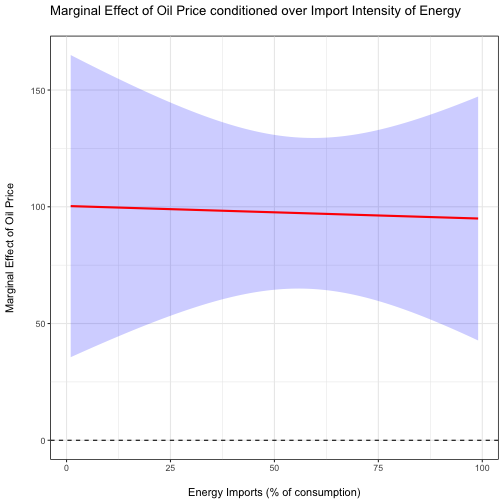
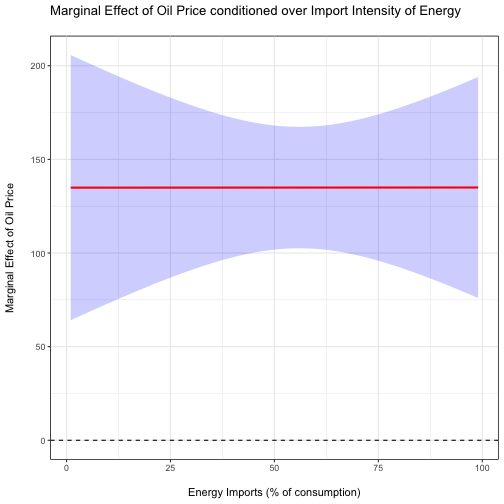
Not sure what this is

diff --git a/Presentation_FinalProject.md b/Presentation_FinalProject.md
@@ -1,0 +1,146 @@
+Determinants of Renewable Energy Investments: An EU Cross-Country Analysis
+========================================================
+author: Camila Vieira & Tarun Khanna
+date: 2 December 2016
+autosize: true
+
+Agenda
+========================================================
+<br>
+- Why Renewable Energy(RE) Investments? 
+- RE Investments through Electricity Generation (Wind and Solar Energy)
+- Variables, Sources and Models
+- Results of Statistical Analysis
+- Main Results (1): Relative FE per country
+- Main Results (2): Effect of Patents
+- Main Results (3): Effect of Oil Price * Energy Intensity
+
+Why Green Investments...
+========================================================
+right: 65%
+<br>
+<br>
+![Green Energy](Renewable_Energy_on_the_Grid.png)
+
+***
+<br>
+- Cope with the effects of climate change
+- Accelerate potential alternatives
+- Focus on mitigation: 
+<br>(+) Reduce CO2 emissions w/ efficiency gains in E consumption/production
+<br>(+) Adoption of other forms of energy production
+
+**Research Question:**
+<br>
+What are the determinants of investments in RE?
+
+Renewable Electricity Generation in European Countries
+========================================================
+<br>
+<br>
+<br>
+![Wind Energy](WindEnergy_Gen.png)
+
+***
+<br>
+<br>
+<br>
+![Solar Energy](SolarEnergy_Gen.png)
+
+
+Variables, Sources and Models 
+========================================================
+<br>
+**Dependent variable:**
+<br> - Electricity generation from 
+Renewable Energy Sources (Eurostat)
+<br>
+<br>
+**Independent variables:** 
+<br> - GDP per Capita and Net Energy Imports (WDI)
+<br>- Innovation in RE and long-term interest rates (Eurostat)
+<br>- Crude oil prices (OPEC)
+<br>
+<br>
+**Models**:
+<br>*Panel Data with 28 EU-countries (2005-2013)*
+<br> - Pooled OLS + Relative Fixed Effects
+
+
+Results of Statistical Analysis (1)
+========================================================
+
+
+
+
+\begin{tabular}{@{\extracolsep{5pt}}lcc} 
+\\[-1.8ex]\hline 
+\hline \\[-1.8ex] 
+ & \multicolumn{2}{c}{\textit{Dependent variable:}} \\ 
+\cline{2-3} 
+\\[-1.8ex] & \multicolumn{2}{c}{Renewable Energy} \\ 
+\\[-1.8ex] & (1) & (2)\\ 
+\hline \\[-1.8ex] 
+ GDP per capita (constant 2000 US$) & $-$5,617.885$^{***}$ & $-$26,439.210$^{***}$ \\ 
+  & (1,413.072) & (7,194.158) \\ 
+  & & \\ 
+ Energy Imports (% of total energy) & 138.767$^{***}$ & 32.439 \\ 
+  & (26.249) & (60.344) \\ 
+  & & \\ 
+ Interest Rate & $-$44.305 & $-$405.352$^{*}$ \\ 
+  & (325.734) & (206.811) \\ 
+  & & \\ 
+ Oil Price & 82.331$^{***}$ & 134.944$^{***}$ \\ 
+  & (30.872) & (16.506) \\ 
+  & & \\ 
+ poly(patents, 3)1 & 154,314.100$^{***}$ & $-$1,242.230 \\ 
+  & (12,463.310) & (14,398.090) \\ 
+  & & \\ 
+ poly(patents, 3)2 & $-$41,651.460$^{***}$ & $-$369.392 \\ 
+  & (12,376.230) & (11,265.250) \\ 
+  & & \\ 
+ poly(patents, 3)3 & 63,150.430$^{***}$ & 30,054.710$^{***}$ \\ 
+  & (11,079.490) & (7,687.300) \\ 
+  & & \\ 
+ Constant & 49,658.550$^{***}$ &  \\ 
+  & (14,647.570) &  \\ 
+  & & \\ 
+\hline \\[-1.8ex] 
+Observations & 234 & 234 \\ 
+R$^{2}$ & 0.473 & 0.326 \\ 
+Adjusted R$^{2}$ & 0.457 & 0.280 \\ 
+F Statistic & 28.944$^{***}$ & 13.860$^{***}$ \\ 
+\hline 
+\hline \\[-1.8ex] 
+\textit{Note:}  & \multicolumn{2}{r}{$^{*}$p$<$0.1; $^{**}$p$<$0.05; $^{***}$p$<$0.01} \\ 
+ & \multicolumn{2}{r}{(1) pooled OLS (2) Fixed effects} \\ 
+\end{tabular} 
+
+Results of Statistical Analysis (2)
+========================================================
+
+![plot of chunk unnamed-chunk-3](Presentation_FinalProject-figure/unnamed-chunk-3-1.png)
+
+
+
+Main Results (1): Country specific effects
+========================================================
+
+![plot of chunk unnamed-chunk-4](Presentation_FinalProject-figure/unnamed-chunk-4-1.png)
+
+Main Results (2): Effect of Innovation
+========================================================
+
+![plot of chunk unnamed-chunk-5](Presentation_FinalProject-figure/unnamed-chunk-5-1.png)
+
+Main Results (3): Effect of Oil Price 
+========================================================
+
+
+
+![plot of chunk unnamed-chunk-7](Presentation_FinalProject-figure/unnamed-chunk-7-1.png)
+
+Thank you!
+========================================================
+
+
